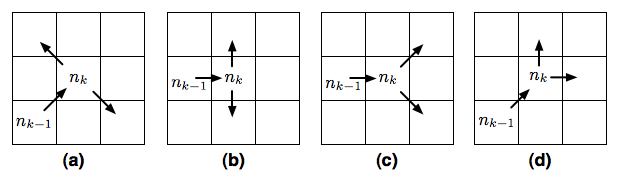
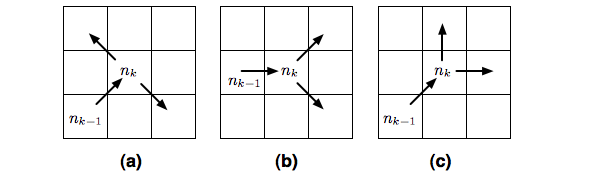
a bunch of edits suggested by Alban. Almost camera-ready

diff --git a/papers/jump/optimality.tex b/papers/jump/optimality.tex
@@ -1,4 +1,4 @@
-\subsection{Optimality}
+\section{Optimality}
 In this section we prove that for each optimal length path in a grid map there
 exists an equivalent length path which can be found by only expanding jump
 point nodes during search (Theorem \ref{theorem:jumping}).  Our result is
@@ -13,16 +13,18 @@ travel from the previous node $n_{i-1}$ to $n_{i}$ is different to the direction
 of travel from $n_{i}$ to the subsequent node $n_{i+1}$.
 \end{definition}
 
-Figure \ref{fig:turningpoints} depicts the four possible
-kinds of turning points which we may encounter. 
-A diagonal-to-diagonal turning point $n_{k}$ for example (Figure
-\ref{fig:turningpoints}(a)) involves a diagonal step from its parent $n_{k-1}$ 
-followed by a second diagonal step, this time in a different direction,
-from $n_{k}$ to its successor $n_{k+1}$.
-Similarly, a straight-to-diagonal turning point (Figure
-\ref{fig:turningpoints}(c)) 
-involves a straight step to reach $n_{k}$ followed by a diagonal step to reach its 
-successor. 
+Figure \ref{fig:turningpoints} depicts the three possible kinds of turning
+points which we may encounter on an optimal path. A diagonal-to-diagonal turning
+point at node $n_k$ (Figure \ref{fig:turningpoints}(a)) involves a diagonal step
+from its parent $n_{k-1}$ followed by a second diagonal step, this time in a
+different direction, from $n_{k}$ to its successor $n_{k+1}$.  Similarly, a
+straight-to-diagonal (or diagonal-to-straight) turning point involves a straight
+(diagonal) step from $n_{k-1}$ to reach $n_{k}$ followed by a diagonal
+(straight) step to reach its successor $n_{k+1}$ (Figure
+\ref{fig:turningpoints}(b) and \ref{fig:turningpoints}(c) respectively).  
+Other types of turning points, such as straight-to-straight, are trivially
+suboptimal and not considered here (they are pruned by the rules we developed
+earlier; see again Figure \ref{fig:pruning}).
 
 We are now ready to develop an equivalence relation between
 jump points and the turning points that appear along certain optimal length 
@@ -45,21 +47,17 @@ Each turning point along an optimal diagonal-first path $\pi'$ is also a jump po
 \end{lemma}
 \begin{proof}
 Let $n_{k}$ be an arbitrary turning point node along $\pi'$. 
-We will consider four cases, each one corresponding to one of the four
-possible kinds of turning points illustrated in Figure \ref{fig:turningpoints}. 
+We will consider three cases, each one corresponding to one of the three
+possible kinds of optimal turning points illustrated in Figure \ref{fig:turningpoints}. 
 
 \textbf{Diagonal-to-Diagonal:} Since $\pi'$ is optimal, there must be an
 obstacle adjacent to both $n_{k}$ and $n_{k-1}$ which is forcing a detour.
 We know this because if there were no obstacle we would have 
-$d(n_{k-1}, n_{k+1}) < d(n_{k-1}, n_{k}) + d(n_{k}, n_{k+1})$ which contradicts
+$dist(n_{k-1}, n_{k+1}) < dist(n_{k-1}, n_{k}) + dist(n_{k}, n_{k+1})$ which contradicts
 the fact that $\pi'$ is optimal.
 We conclude that $n_{k+1}$ is a forced neighbour of $n_{k}$.
 This is sufficient to satisfy the second condition of Definition
 \ref{def:forced}, making $n_{k}$ a jump point.
-
-\textbf{Straight-to-Straight:} We can ignore this case as it contradicts the 
-optimality of $\pi'$. In particular, we have: 
-$d(n_{k-1}, n_{k+1}) < d(n_{k-1}, n_{k}) + d(n_{k}, n_{k+1})$.
 
 \textbf{Straight-to-Diagonal:} In this case there must be an 
 obstacle adjacent to $n_{k}$. 
@@ -80,9 +78,6 @@ also a jump point.
 If $n_{k}$ is followed by another turning point, $n_{l}$, then that turning
 point must be Straight-to-Diagonal and, by the argument for that case, 
 also a jump point.
-%If this were not true we derive a contradiction either on the optimality of
-%$\pi'$ or on the fact that $\pi'$ is diagonal-first. Since both 
-%properties are guaranteed we derive the fact that $n_{k}$ has
 We again conclude that $n_{k}$ has a jump point successor which satisfies
 the third condition of Definition \ref{def:forced}. Thus, $n_{k}$ is
 also a jump point.
@@ -94,8 +89,8 @@ also a jump point.
 			{diagrams/turningpoints.png}
        \end{center}
 	\vspace{-3pt}
-       \caption{Types of turning points. (a) Diagonal-to-Diagonal
-(b) Straight-to-Straight (c) Straight-to-Diagonal (d) Diagonal-to-Straight.}
+       \caption{Types of optimal turning points. (a) Diagonal-to-Diagonal
+(b) Straight-to-Diagonal (c) Diagonal-to-Straight.}
        \label{fig:turningpoints}
 \end{figure}
 

diff --git a/papers/jump/pruning.tex b/papers/jump/pruning.tex
@@ -1,21 +1,7 @@
 \subsection{Neighbour Pruning Rules} 
 \label{sec:pruning}
 
-In this section we develop rules for pruning the set of nodes immediately 
-adjacent to some node $x$ from the grid.
-The objective is to identify from each
-set of such neighbours, i.e. $neighbours(x)$, any nodes $n$ that do not need to be evaluated in order to
-reach the goal optimally. We achieve this by comparing the length of two paths:
-$\pi$, which begins with node $p(x)$ visits $x$ and ends with $n$ and another
-path $\pi'$ which also begins at node $p(x)$ and ends with $n$ but does not 
-mention $x$. 
-Additionally, each node mentioned by either $\pi$ or $\pi'$ must belong to 
-$neighbours(x)$.
-There are two cases to consider, depending on
-whether the transition to $x$ from its parent $p(x)$ involves a straight move or
-a diagonal move. 
-
-\begin{figure}[h]
+\begin{figure}[tb]
        \begin{center}
 		   \includegraphics[scale=0.4, trim = 10mm 10mm 10mm 0mm]
 			{diagrams/pruningrules.png}
@@ -26,6 +12,23 @@ parent $p(x)$ by either a straight or diagonal move. When $x$ is expanded we can
 prune from consideration all nodes marked grey.}
        \label{fig:pruning}
 \end{figure}
+
+In this section we develop rules for pruning the set of nodes immediately 
+adjacent to some node $x$ from the grid.
+The objective is to identify from each
+set of such neighbours, i.e. $neighbours(x)$, any nodes $n$ that do not need to be evaluated in order to
+reach the goal optimally. We achieve this by comparing the length of two paths:
+$\pi$, which begins with node $p(x)$ visits $x$ and ends with $n$ and another
+path $\pi'$ which also begins at node $p(x)$ and ends with $n$ but does not 
+mention $x$. 
+Additionally, each node mentioned by either $\pi$ or $\pi'$ must belong to 
+$neighbours(x)$. 
+
+There are two cases to consider, depending on
+whether the transition to $x$ from its parent $p(x)$ involves a straight move or
+a diagonal move. Note that if $x$ is the start node $p(x)$ is null and nothing
+is pruned.
+
 \par \noindent
 \textbf{Straight Moves:} We prune any node $n \in neighbours(x)$ which 
 satisfies the following dominance constraint:
@@ -35,10 +38,6 @@ len(~\begin{pth}p(x), \ldots, n\end{pth} \setminus x~)
 \end{equation}
 Figure \ref{fig:pruning}(a) shows an example. Here $p(x) = 4$ and we prune
  all neighbours except $n = 5$.
-%In some cases we may be \emph{forced} to evaluate a neighbour which would be
-%dominated except for the presence of obstacles that are adjacent to $x$.  We
-%show an example of this situation in Figure \ref{fig:pruning}(b); notice that 
-%in addition to $n = 5$ we are also forced to consider $n = 3$. 
 \par \noindent
 \textbf{Diagonal Moves:} This case is similar to the pruning rules we developed
 for straight moves; the only difference is that the path which excludes $x$ must 

diff --git a/papers/jump/notation.tex b/papers/jump/notation.tex
@@ -1,27 +1,23 @@
 \section{Notation and Terminology}
 \label{sec:notation}
-We work with undirected uniform-cost grid maps.
-Each node has $\leq 8$ neighbours and is either traversable or not. 
-Straight moves, i.e., horizontal or vertical moves, 
-from a traversable node to one of its neighbours, 
-have a cost of 1; diagonal moves cost $\approx\sqrt 2$.
-Moves involving non-traversable (obstacle) nodes are disallowed.
-The notation $\vec{d}$ refers to one of the eight moves.  
-We write $y = x + k\vec{d}$ when node~$y$ can be reached 
-by taking $k$ unit moves from node~$x$ in direction $\vec{d}$.
-If move~$\vec{d}$ is diagonal, 
-then the two straight moves $45\deg$ to $\vec{d}$ are denoted by $\vec{d_1}$ and $\vec{d_2}$.  
+We work with undirected uniform-cost grid maps.  Each node has $\leq 8$
+neighbours and is either traversable or not.  Each straight (i.e. horizontal or vertical) move,
+from a traversable node to one of its neighbours, has a cost of 1; diagonal
+moves cost $\approx\sqrt 2$.  Moves involving non-traversable (obstacle) nodes
+are disallowed.  The notation $\vec{d}$ refers to one of the eight allowable
+movement directions (up, down, left, right etc.).  We write $y = x + k\vec{d}$
+when node~$y$ can be reached by taking $k$ unit moves from node~$x$ in direction
+$\vec{d}$.  When $\vec{d}$ is a diagonal move, we will also consider the two
+straight moves at $45\deg$ to $\vec{d}$: we denote these $\vec{d_1}$ and
+$\vec{d_2}$.
 
-A path $\pi =~\begin{pth}n_{0}, n_{1}, \ldots , n_{k}\end{pth}$ is a
-cycle-free ordered walk starting at node $n_{0}$ and ending at 
-$n_{k}$.
-We will sometimes use the setminus operator in the context of a path:
-for example $\pi \setminus x$. This means that the subtracted node $x$
-does not appear on (i.e. is not mentioned by) the path. 
-We will also use the function $len$ to refer the length (or cost) of a path 
-and the function $d$ to refer to the distance between two nodes 
-on the grid: e.g. $len(\pi)$ or $d(n_{0}, n_{k})$ respectively.
-%As we work with only straight-line distances, applying $d$ requires no search.
+A path $\pi =~\begin{pth}n_{0}, n_{1}, \ldots , n_{k}\end{pth}$ is a cycle-free
+ordered walk starting at node $n_{0}$ and ending at $n_{k}$.  We will sometimes
+use the setminus operator in the context of a path: for example $\pi \setminus
+x$. This means that the subtracted node $x$ does not appear on (i.e. is not
+mentioned by) the path.  We will also use the function $len$ to refer the length
+(or cost) of a path and the function $dist$ to refer to the distance between two
+nodes on the grid: e.g. $len(\pi)$ or $dist(n_{0}, n_{k})$ respectively.  
 
 
 

diff --git a/papers/jump/jumpdesc.tex b/papers/jump/jumpdesc.tex
@@ -1,4 +1,7 @@
 \subsection{Algorithmic Description}
+
+\input alg_jumpexpansion
+
 We begin by making precise the concept of a jump point.  
 %To do so, we use the notation $\vec{d}$ 
 %to refer to one of the eight unit moves that can be taken from a node.  
@@ -20,25 +23,22 @@ following conditions holds:
 \item{Node~$y$ has at least one neighbour whose evaluation is forced according 
 to Definition \ref{def:forced}.}
 \item{$\vec{d}$ is a diagonal move and there exists a node $z = y +
-%k_i\vec{d_{i}}$ which lies $k_i \in \{k_1, k_2\}$ steps in direction $d_i \in
 k_i\vec{d_{i}}$ which lies $k_i \in \mathbf{N}$ steps in direction $\vec{d_i} \in
 \{\vec{d_1},\vec{d_2}\}$ such that $z$ is a jump point from $y$ by condition 1 or condition~2.}
-%satisfies condition 1 or condition 2 }
 \end{enumerate}
 \end{definition}
 
 Figure \ref{fig:jumppoints}(b) shows an example of a jump point which is
 identified by way of condition 3.
 Here we start at $x$ and travel diagonally until encountering node $y$. 
-From $y$, node~$z$ can be reached with $k_i = 2$ horizontal moves; 
-$z$ being a jump point from $y$ by condition~2, 
-$y$ is a jump point from $x$.  
+From $y$, node~$z$ can be reached with $k_i = 2$ horizontal moves.
+Thus $z$ is a jump point successor of $y$ (by condition~2) and this in turn
+identifies $y$ as a jump point successor of $x$ 
 
 %We identify $y$ as a jump point of $x$ by applying condition 3 of 
 %Definition \ref{def:jump}. This in turn invokes condition 2 to identify $z$ 
 %as a jump point from $y$. 
 
-\input alg_jumpexpansion
 
 The process by which individual jump point successors are identified is given in
 Algorithm \ref{alg:successors}.  We start with the pruned set of neighbours

diff --git a/papers/jump/alg_jumpexpansion.tex b/papers/jump/alg_jumpexpansion.tex
@@ -2,13 +2,13 @@
 \caption{Identify Successors}
 \label{alg:successors}
 \begin{algorithmic}[1]
-\REQUIRE $x$: current node, $s$: the start node, $g$: the goal node
+\REQUIRE $x$: current node, $s$: start, $g$: goal 
 
 \STATE $successors(x) \leftarrow \emptyset$
 \STATE $neighbours(x) \leftarrow prune(x, neighbours(x))$ 
 
 \FORALL{$n \in neighbours(x)$}
-\STATE $n \leftarrow jump(x, direction(x, n), g, s)$
+\STATE $n \leftarrow jump(x, direction(x, n), s, g)$
 \STATE add $n$ to $successors(x)$
 \ENDFOR
 \RETURN $successors(x)$
@@ -17,31 +17,28 @@
 \end{algorithm}
 
 \begin{algorithm}[b]
-\caption{$jump$}
+\caption{Function $jump$}
 \label{alg:jump}
 \begin{algorithmic}[1]
-\REQUIRE $x$: initial node, $\vec{d}$: direction, $g$: goal, $s$: start
+\REQUIRE $x$: initial node, $\vec{d}$: direction, $s$: start, $g$: goal
 
 \STATE $n \leftarrow step(x, \vec{d})$
-%\IF{$n = \varnothing$}
 \IF{$n$ is an obstacle or is outside the grid}
-	\RETURN $\varnothing$
+	\RETURN \textit{null}
 \ENDIF
-\IF{$n = g$ or $x = s$}
+\IF{$n = g$}
 	\RETURN $n$
 \ENDIF
 \IF{$\exists~n' \in neighbours(n)$ s.t. $n'$ is forced}
 	\RETURN $n$
 \ENDIF
 \IF{$\vec{d}$ is diagonal}
-%	\FORALL{$n' \in prune(n, neighbours(n))$ s.t. $direction(n, n')$ is straight}
 	\FORALL{$i \in \{1,2\}$}
-%		\IF{ $jump(n, direction(n, n'), g, s) \neq \varnothing$ }
-		\IF{ $jump(n, \vec{d_i}, g, s) \neq \varnothing$ }
+		\IF{ $jump(n, \vec{d_i}, s, g)$ is not \textit{null} }
 			\RETURN $n$
 		\ENDIF
 	\ENDFOR
 \ENDIF
-\RETURN $jump(n, \vec{d}, g, s)$
+\RETURN $jump(n, \vec{d}, s, g)$
 \end{algorithmic}
 \end{algorithm}

diff --git a/papers/jump/introduction.tex b/papers/jump/introduction.tex
@@ -1,14 +1,4 @@
 \section{Introduction}
-%The most popular pathfinding methods, such as A*, Bellman-Ford and Dijkstra's
-%algorithm, and Dijkstra's algorithm, have all been developed in the context of
-%general purpose problem graphs.  Finding a shortest path usually requires only
-%that the start and goal locations belong to the same connected component, that
-%the graph contains no negative weight edges and, in the case of A*, that an
-%admissible heuristic is available.  These same algorithms however are usually
-%deployed on problem domains which are more constrained: undirected uniform-cost
-%graphs where each node corresponds to a location on a 2D Euclidean plane.
-%Perhaps the most common example of such a domain is the ubiquitous grid map.
-
 Widely employed in areas such as robotics \cite{lee09}, artificial intelligence
 \cite{wang09} and video games \cite{davis00,sturtevant07}, the ubiquitous
 undirected uniform-cost grid map is a highly popular method for representing

diff --git a/papers/jump/alg_dfirst.tex b/papers/jump/alg_dfirst.tex
@@ -5,10 +5,10 @@
 \REQUIRE $\pi$: an arbitrary optimal length path
 
 \STATE{\textbf{select} an adjacent pair of edges appearing along $\pi$ where
-$(i, j)$ is a straight move and $(j, k)$ is a diagonal move.}
-\STATE{ \textbf{replace} $(i, j)$ and $(j, k)$ with two new edges: $(i, j')$, 
-which is a diagonal move and $(j', k)$ which is a straight move. 
-The operation is successful if $(i, j')$ and $(j', k)$ are both valid moves; i.e. node $j'$ is not an
+$(n_{k-1}, n_k)$ is a straight move and $(n_k, n_{k+1})$ is a diagonal move.}
+\STATE{ \textbf{replace} $(n_{n-1}, n_k)$ and $(n_k, n_{k+1})$ with two new edges: $(n_{k-1}, n_{k}')$, 
+which is a diagonal move and $(n_{k}', n_{k+1})$ which is a straight move. 
+The operation is successful if $(n_{k-1}, n_{k}')$ and $(n_{k}', n_{k+1})$ are both valid moves; i.e. node $n_{k}'$ is not an
 obstacle.}
 \STATE \textbf{repeat} lines 1 and 2, selecting and replacing adjacent edges, 
 until no further changes can be made to $\pi$.

diff --git a/papers/jump/jumppoints.tex b/papers/jump/jumppoints.tex
@@ -31,7 +31,7 @@ to simply step to the right and continue moving in this direction until we
 encounter a node such as $y$; which has at least one other non-dominated
 neighbour (here $z$). 
 If we find a node such as $y$ (a jump point) we generate it as a successor 
-of $x$ and assign it a $g$-value (or cost-so-far) of $g(y) = g(x) + d(x,
+of $x$ and assign it a $g$-value (or cost-so-far) of $g(y) = g(x) + dist(x,
 y)$.
 Alternatively, if we reach an obstacle we conclude that further search in this
 direction is fruitless and generate nothing.
@@ -49,5 +49,4 @@ Figure \ref{fig:jumppoints}(a), has no effect on the optimality of search.
 
 \input pruning
 \input jumpdesc
-\input optimality
 

diff --git a/papers/jump/abstract.tex b/papers/jump/abstract.tex
@@ -1,5 +1,5 @@
 \begin{abstract}
-Pathfinding in uniform-cost grid environments is problem commonly found in
+Pathfinding in uniform-cost grid environments is a problem commonly found in
 application areas such as robotics and video games.  The
 state-of-the-art is dominated by hierarchical pathfinding
 algorithms which are fast and have small memory overheads but usually return

diff --git a/papers/jump/setup.tex b/papers/jump/setup.tex
@@ -1,7 +1,6 @@
 \section{Experimental Setup}
 We evaluate the performance of jump point pruning on four benchmarks taken from the freely
 available pathfinding library Hierarchical Open Graph
-%(HOG)\footnote{\url{http://www.googlecode.com/p/hog2}}: 
 (HOG, \url{http://www.googlecode.com/p/hog2}): 
 \begin{itemize}
 

diff --git a/papers/jump/article.tex b/papers/jump/article.tex
@@ -41,6 +41,7 @@ Email: firstname.lastname@nicta.com.au
 \input relatedwork
 \input notation
 \input jumppoints
+\input optimality
 \input setup
 \input results
 \input conclusion
